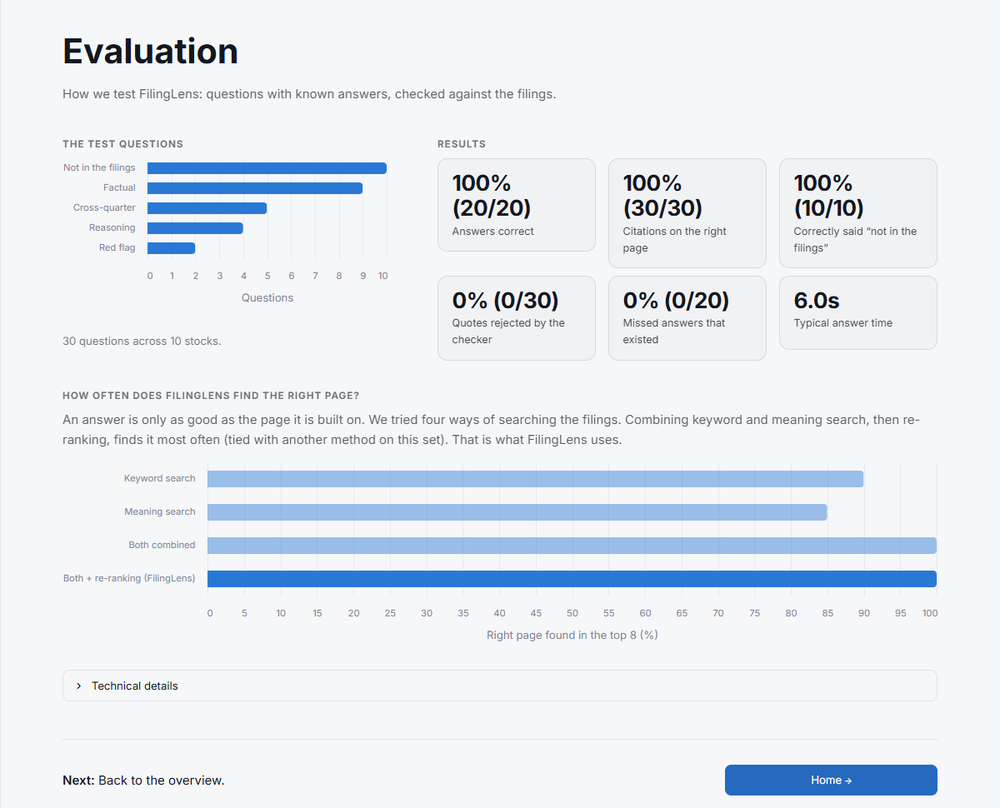
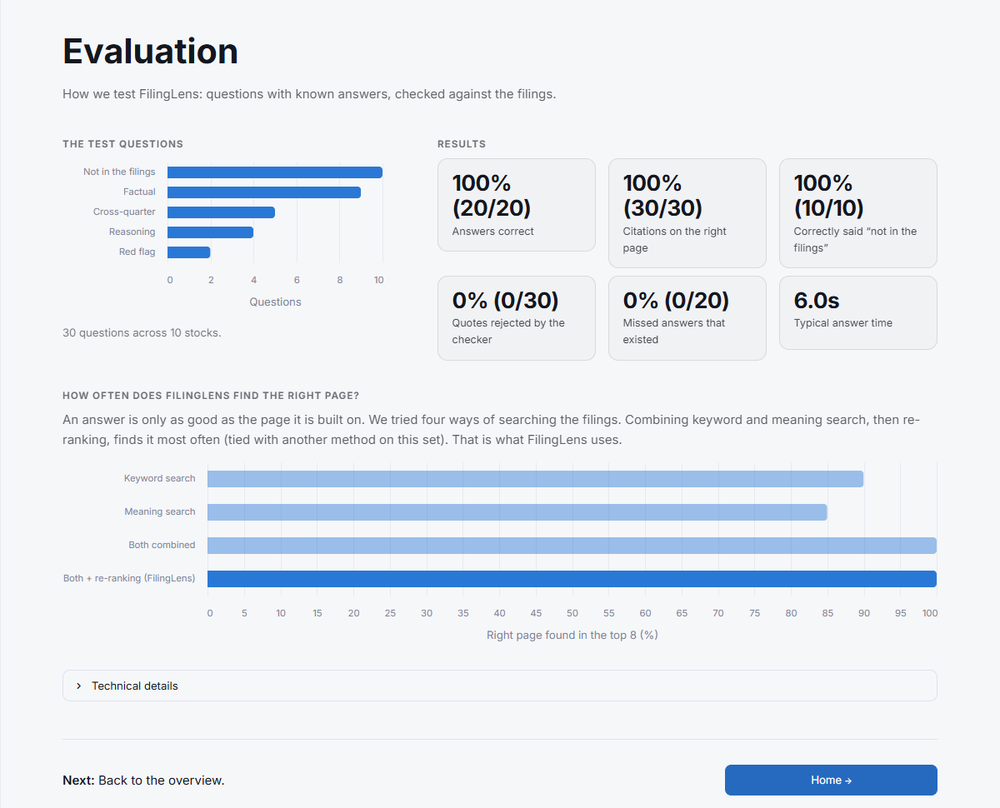
UI polish and a 2 s-per-request fix; remove stale MIGRATION.md
- Talk to the API on 127.0.0.1: on Windows 'localhost' tried IPv6 first and every request
  waited ~2 s, so a Brief (~20 calls) took ~40 s. A cold Brief now renders in seconds.
- Hide Streamlit's Deploy button (toolbarMode minimal).
- Chart labels no longer lose their first letters (left padding for late web-font load).
- Flag page: filed numbers shown one row per measure so the table fits; severity worded as
  'High-/Medium-severity flag · adds N to the risk score' instead of 'Severe'.
- Dashboard 'In Ask' column as text, not a checkbox that looks clickable.
- Refreshed README screenshots; removed MIGRATION.md (an old Docker-era developer note).

Changed region(s): [[0.062, 0.1856, 0.403, 0.3403], [0.062, 0.4022, 0.217, 0.4332], [0.248, 0.3403, 0.31, 0.4022]]

diff --git a/web/app.py b/web/app.py
@@ -21,7 +21,9 @@ import pandas as pd
 import requests
 import streamlit as st
 
-API = os.environ.get("FILINGLENS_API", "http://localhost:8000")
+# 127.0.0.1, not "localhost": on Windows "localhost" tries IPv6 (::1) first and every request then waits ~2 s
+# before falling back to IPv4, where uvicorn listens. A Brief makes ~20 calls, so that was ~40 s per page.
+API = os.environ.get("FILINGLENS_API", "http://127.0.0.1:8000").replace("://localhost", "://127.0.0.1")
 
 st.set_page_config(page_title="FilingLens", page_icon="🔎", layout="wide", initial_sidebar_state="expanded")
 
@@ -291,7 +293,9 @@ def bar_chart(df: pd.DataFrame, x: str, y: str, x_title: str, tooltip: list, col
                tooltip=tooltip)
     if color is not None:
         enc["color"] = color
-    return alt.Chart(df).mark_bar(cornerRadiusEnd=4, size=14).encode(**enc).properties(height=alt.Step(step))
+    # Left padding: labels are measured before the web font loads and drawn wider after, which clipped first letters.
+    return (alt.Chart(df).mark_bar(cornerRadiusEnd=4, size=14).encode(**enc)
+            .properties(height=alt.Step(step), padding={"left": 24, "top": 5, "right": 5, "bottom": 5}))
 
 
 LEVEL_COLOR = alt.Color("level:N", title="Risk level",
@@ -682,11 +686,14 @@ def dashboard() -> None:
     table = df[df["level"].isin(levels or [])].copy()
     table["Level"] = table["level"].map(lambda k: f"{LEVEL[k]['icon']} {LEVEL[k]['label']}")
     table["Flags"] = table["flags"].map(lambda fs: ", ".join(FLAG_NAMES.get(f, f) for f in fs) or "—")
-    st.dataframe(table[["symbol", "Level", "score", "Flags", "Q&A"]], hide_index=True, width="stretch",
+    # Text, not a checkbox: a checkbox column looks clickable but isn't.
+    table["In Ask"] = table["Q&A"].map(lambda v: "Yes" if v else "—")
+    st.dataframe(table[["symbol", "Level", "score", "Flags", "In Ask"]], hide_index=True, width="stretch",
                  column_config={"symbol": st.column_config.TextColumn("Stock"),
                                 "score": st.column_config.ProgressColumn("Score", min_value=0,
                                                                          max_value=int(df["score"].max() or 1), format="%d"),
-                                "Q&A": st.column_config.CheckboxColumn("In Ask")})
+                                "In Ask": st.column_config.TextColumn("In Ask", help="Can you question this "
+                                                                      "company's filings on the Ask page?")})
 
     section("Stock detail")
     default = st.session_state.get("symbol", "IDEA")
@@ -729,7 +736,9 @@ def flag_page() -> None:
     if not fl:
         st.warning(f"{symbol} no longer triggers this flag.")
         return
-    sev = "🔴 Severe" if fl["severity"] == 3 else "🟠 Warning"
+    # Severity of this one flag (adds to the stock's score); the dashboard's High/Elevated/Low is the stock's level.
+    sev = ("🔴 High-severity flag" if fl["severity"] == 3 else "🟠 Medium-severity flag") + \
+        f" · adds {fl['severity']} to the risk score"
     st.markdown(f"<p class='fl-muted' style='margin:0'>{symbol} · {sev}</p>", unsafe_allow_html=True)
     st.title(fl["title"])
 
@@ -742,7 +751,10 @@ def flag_page() -> None:
     if structured:
         section("The filed numbers")
         rows = [{"period": e.get("period") or e.get("as_of"), **e["values"]} for e in structured]
-        tdf = pd.DataFrame(rows).rename(columns=VALUE_LABELS)
+        # One row per measure, one column per period: fits the page instead of scrolling sideways.
+        tdf = (pd.DataFrame(rows).set_index("period").rename(columns=VALUE_LABELS).T
+               .reset_index().rename(columns={"index": "Measure"}))
+        tdf.columns = [str(c) for c in tdf.columns]
         st.dataframe(tdf, hide_index=True, width="stretch")
         if code in ("pledge_creep", "pledge_high", "promoter_stake_drop"):
             ch = shareholding_chart(symbol, height=340)
